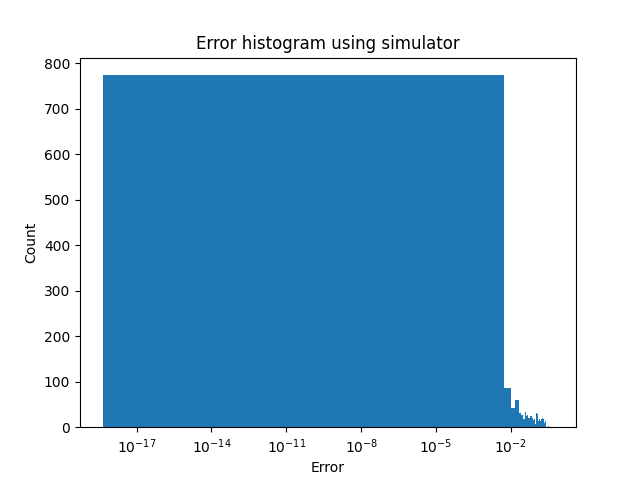
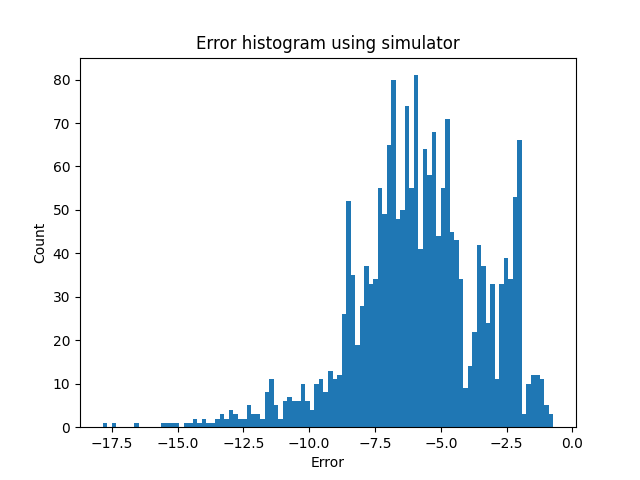
histogram updated

diff --git a/train.py b/train.py
@@ -41,8 +41,8 @@ def loss(ys, labels, x = None):
 def train():
     train_data, test_data = data_reader.read_data_sine_wave()
 
-    #num_epochs = 500
-    num_epochs = 40
+    num_epochs = 500
+    #num_epochs = 40
     #num_epochs = 5
 
     model_f = Forward()
@@ -174,19 +174,19 @@ def train():
     print("Inference error found to be {}".format(inference_err_avg))
 
     plt.figure(1)
-    plt.hist(fwd_mses, bins = 100, range = (0, 0.5))
+    #plt.xscale('log')
     plt.title("Error histogram using forward model")
     plt.xlabel("Error")
     plt.ylabel("Count")
-    plt.xscale('log')
+    plt.hist(np.log(fwd_mses), bins=100)
     plt.savefig("histogram_forward.png")
 
     plt.figure(2)
-    plt.hist(sim_mses, bins=100, range = (0, 0.5))
+    #plt.xscale('log')
     plt.xlabel("Error")
     plt.ylabel("Count")
-    plt.xscale('log')
     plt.title("Error histogram using simulator")
+    plt.hist(np.log(sim_mses), bins=100)
     plt.savefig("histogram_simulator.png")
 
     plt.figure(3)
